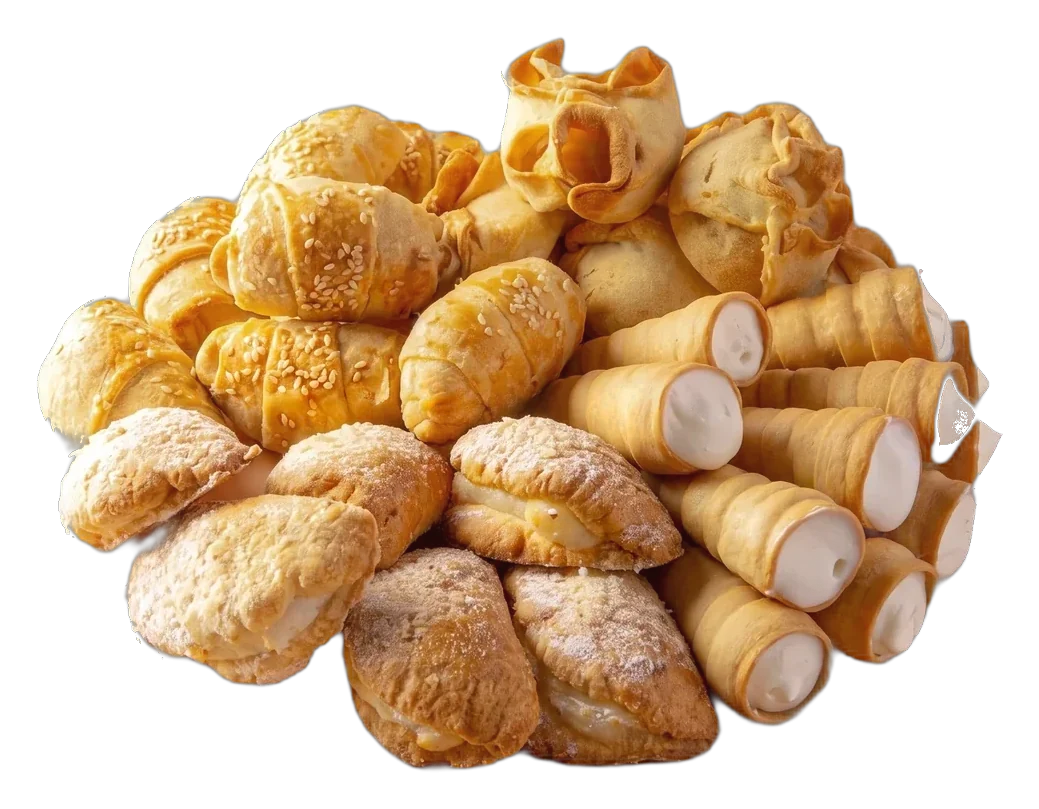
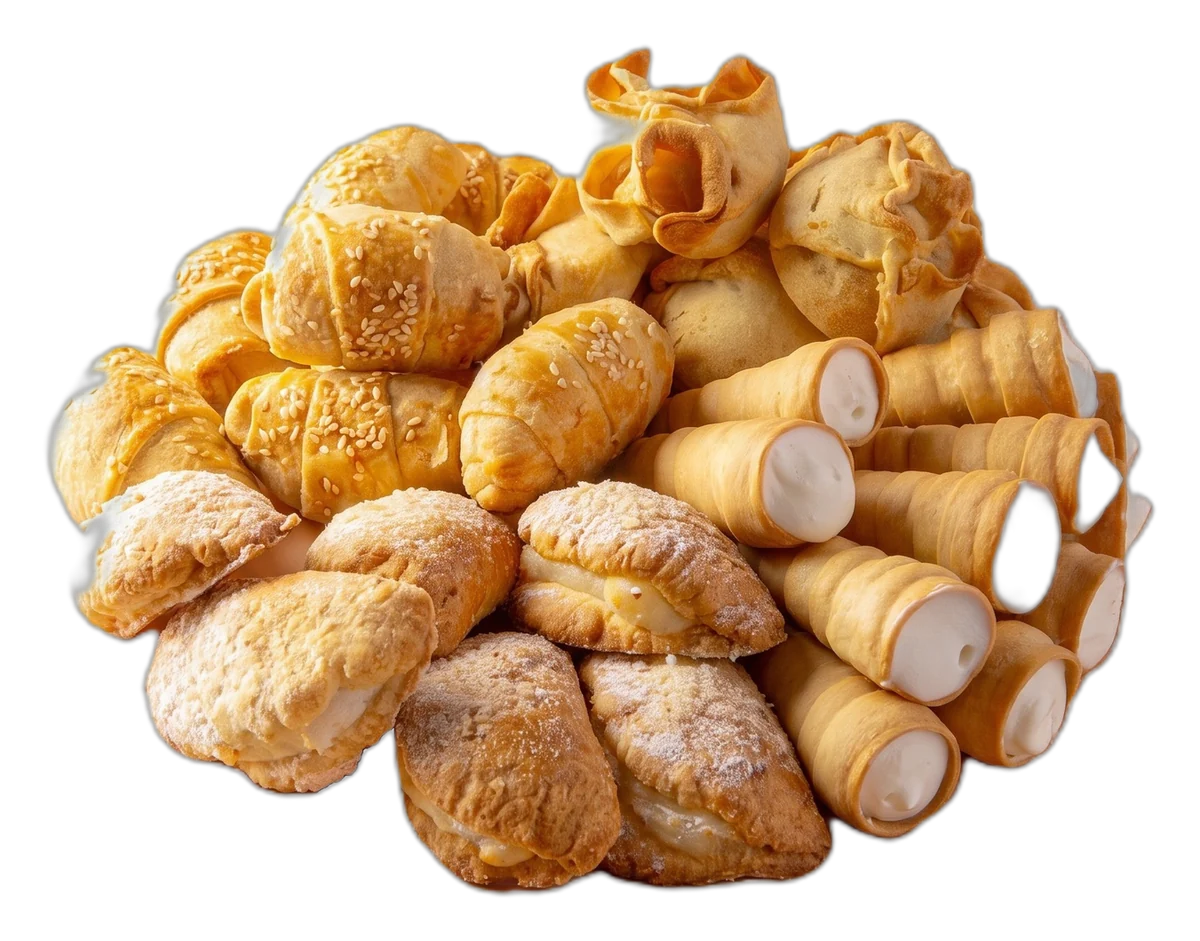
content: use user vypechka photo on category stage
Process uploaded cutout to transparent webp (~188KB) and wire pastries slide.

Changed region(s): [[0.0308, 0.0309, 0.9856, 0.958]]

diff --git a/app.js b/app.js
@@ -4954,7 +4954,7 @@ const CATEGORY_STAGE_ITEMS = [
   },
   {
     category: "pastries",
-    src: "images/stage/pastry_vypechka.webp",
+    src: "images/vypechka.webp",
     ghost: "ВЫПЕЧКА",
     // warm amber / honey gold
     bg: "#c48a28",